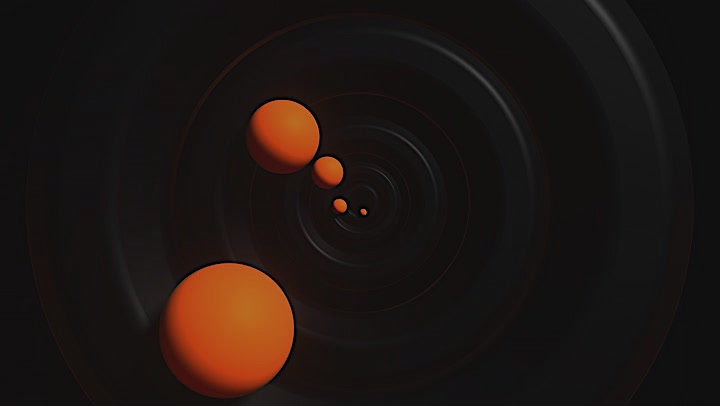
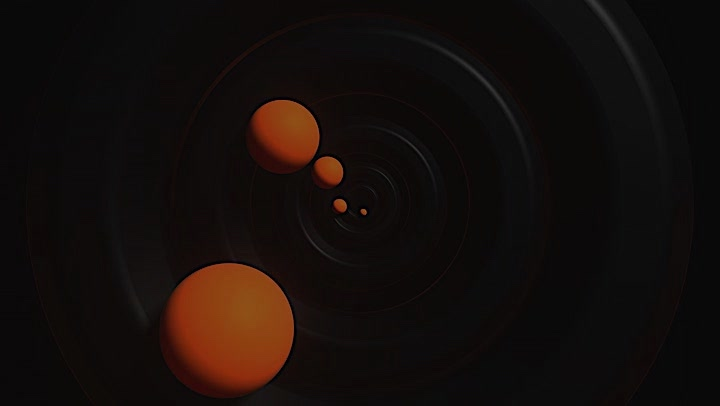
bg home & styling

Changed region(s): [[0.2139, 0.6502, 0.4278, 0.9754], [0.3361, 0.2365, 0.5194, 0.532]]

diff --git a/css/style.css b/css/style.css
@@ -160,7 +160,7 @@ header .ham-burger.active span:nth-child(2) {
 .home {
 	height: 100vh;
 	max-width: 100%;
-	background-image: url('../images/slide-2.jpg');
+	background-image: url('../images/home.jpg');
 	background-size: cover;
 	padding: 15px;
 	-webkit-display: flex;
@@ -225,7 +225,7 @@ header .ham-burger.active span:nth-child(2) {
 }
 
 .home h1 span {
-	color: rgb(251, 115, 21);
+	color: rgb(254, 112, 11);
 	;
 }
 
